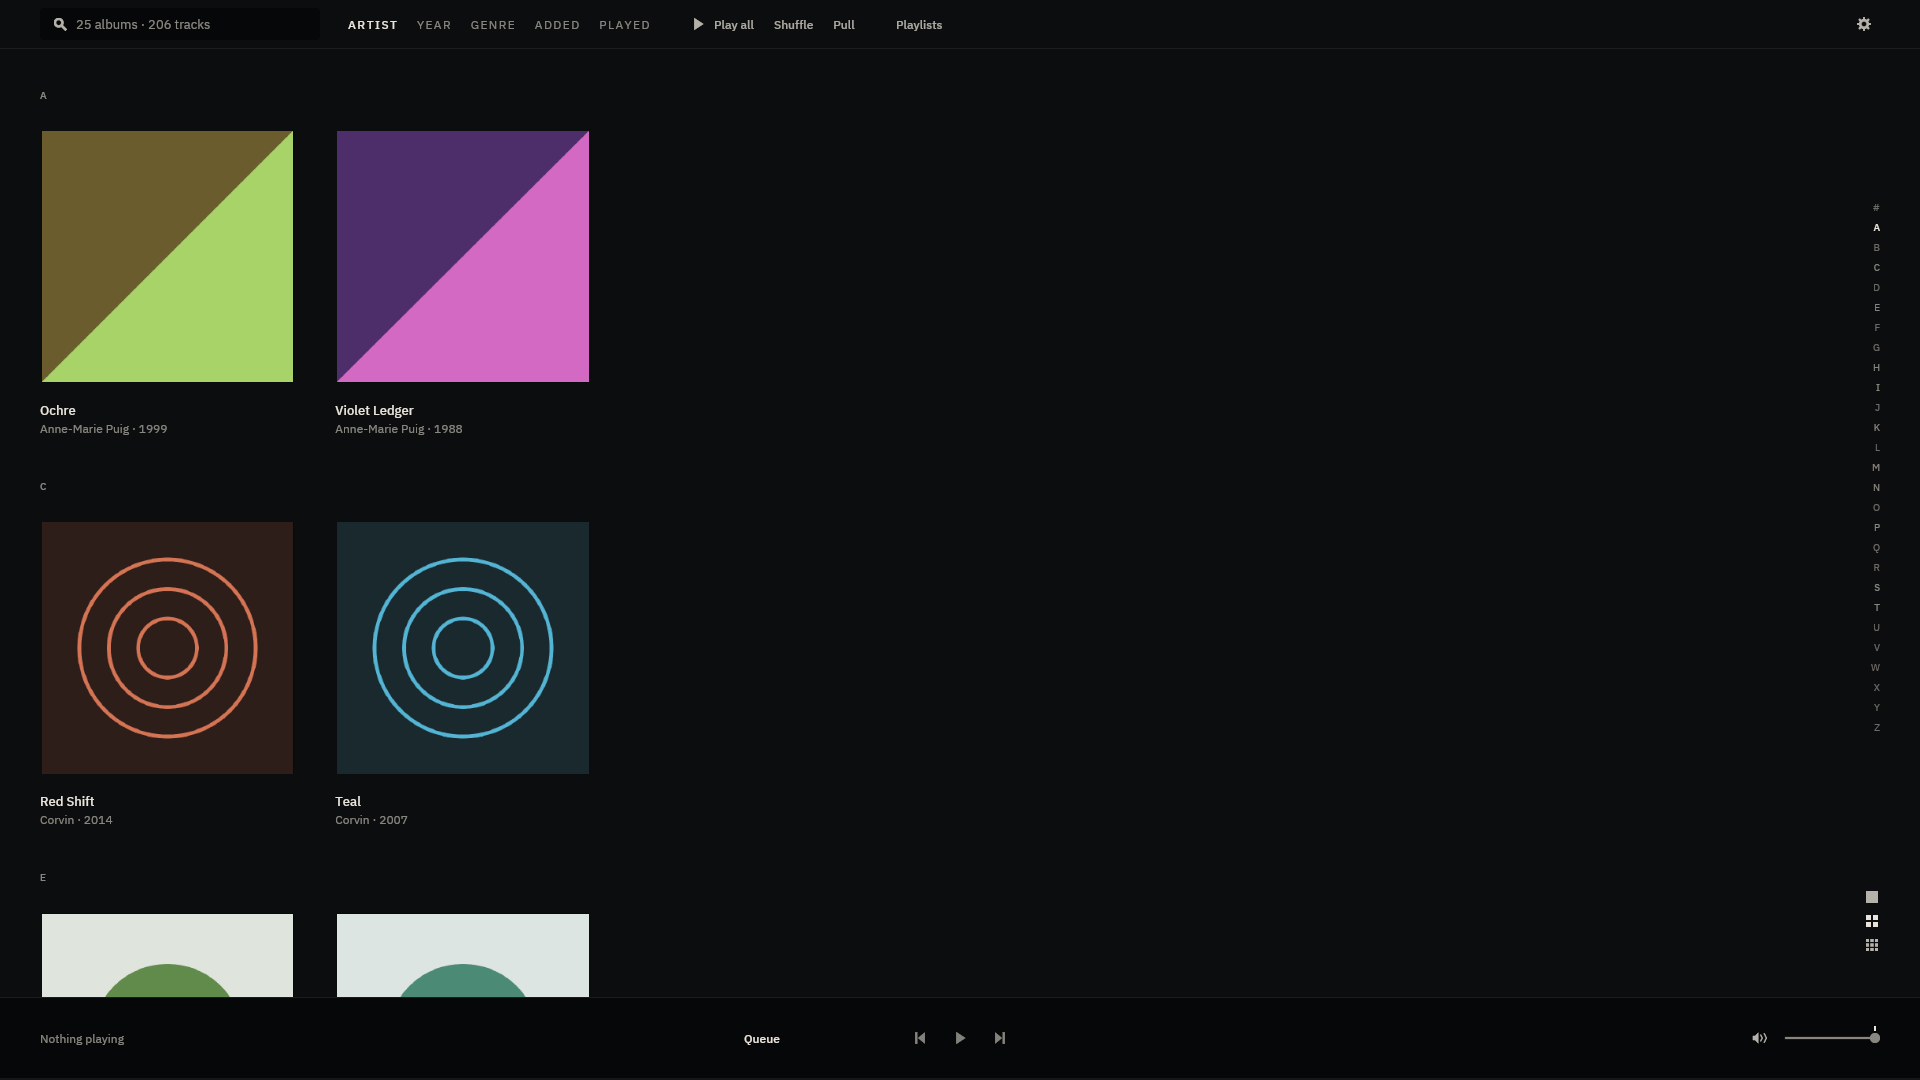
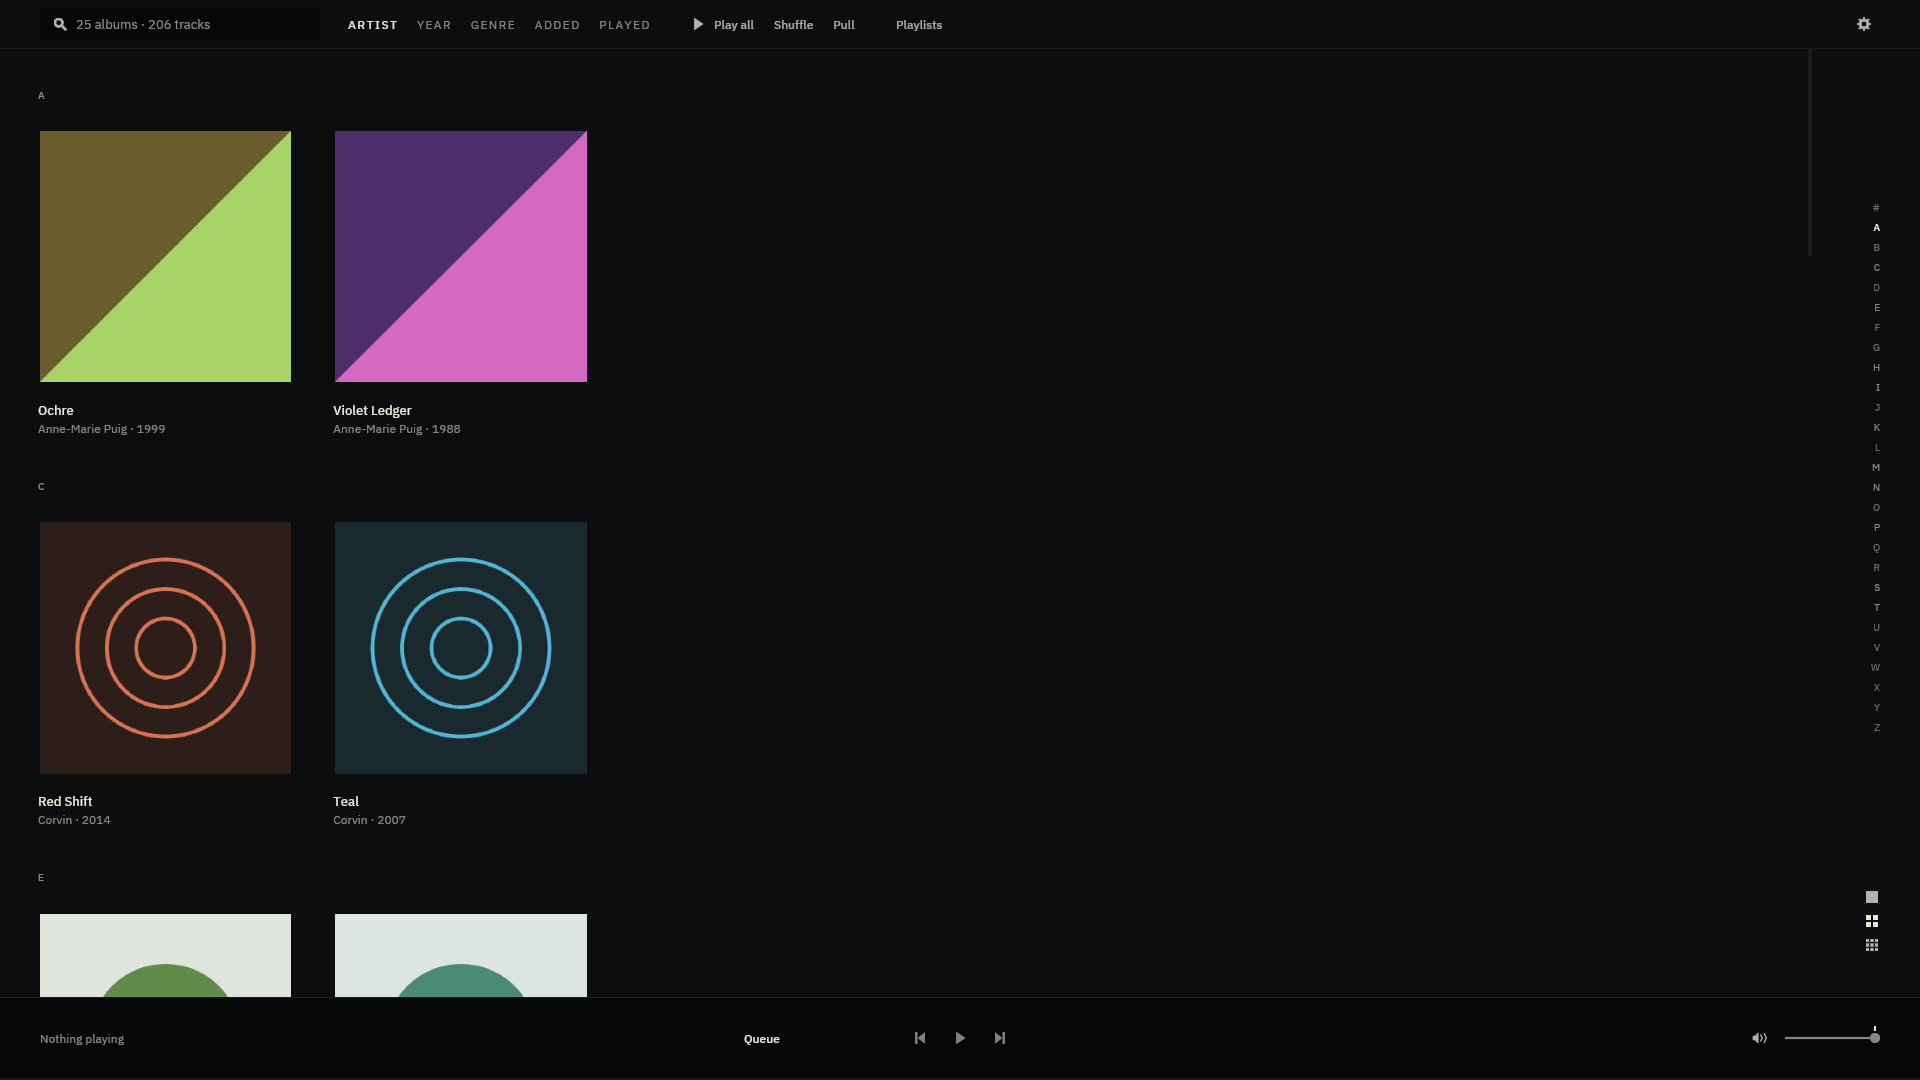
The wall gets a scrollbar: 4 px, and it reserves its own lane
The owner: "can we allow there to be a scroll bar for any view? Just a very
minimal scroll bar because otherwise, it's hard to just jump to the end".

The wall was the only scrolling surface in baz without one — every list already
kept `list_scrollbar`, so "any view" is this view. docs/REFUSALS.md's "two
vertical strips may not do one job" is rewritten to record the decision.

What the rail cannot be asked is *take me to the end*: it jumps to shelves by
group key, and the end is not a group key — under ARTIST the last shelf may be
Z or may be #, and under a filter it is whatever survived.

4 px against the rail's 60, no trough, the room's hairline. It sets `spacing`
so iced reserves the lane inside the scrollable rather than drawing the bar
over the content: the wall's block is centred and is not guaranteed to leave
slack at every width, so overlaying would sometimes put a cover's right edge
under the bar. INDEX_LANE_W and every test over the rail's algebra are
unchanged; the 4 px comes out of the wall's own measure.

Claude-Session: https://claude.ai/code/session_01CZaPVEeJgPRSEv17W7PhiH

diff --git a/crates/baz/src/theme.rs b/crates/baz/src/theme.rs
@@ -1795,42 +1795,53 @@ pub fn list_scrollbar() -> scrollable::Scrollbar {
         .margin(SCROLLBAR_MARGIN)
 }
 
-/// **The wall's scrollbar: none at all** — the geometry that draws nothing.
+/// **The wall's scrollbar: 4 px, and it reserves its own lane.**
 ///
-/// A `Scrollbar` at zero width and zero scroller width is a bar iced lays out
-/// and paints nothing for; the `scrollable` around it goes on handling the
-/// wheel, the touchpad, a drag and every programmatic `scroll_to` exactly as it
-/// did. That is the whole of the mechanism, and it is worth stating plainly
-/// because "suppress the bar, keep the scrolling" is the kind of thing a
-/// toolkit often will not do: **iced 0.13 does**, and it is the same primitive
-/// the album inspector's reveal viewport used, verified against
-/// `iced_widget` 0.13.4 before this was specified. No fallback is needed.
+/// The one thing an index rail cannot do is take you to the end. The rail
+/// jumps to *shelves* by group key — a letter, a year, a genre — and "the
+/// bottom" is not one of those: under `ARTIST` the last shelf may be `Z` or
+/// may be `#`, and under a filter it is whatever survived. So the wall now
+/// draws a bar, at the narrowest width that is still a handle.
 ///
-/// # Why the wall gets it and no other list does
+/// *The owner's decision, 2026-08-09* — *"can we allow there to be a scroll
+/// bar for any view? Just a very minimal scroll bar because otherwise, it's
+/// hard to just jump to the end"*. `docs/REFUSALS.md`'s *two vertical strips
+/// may not do one job* entry is rewritten to record it. Every **other** list
+/// in baz already had one ([`list_scrollbar`]); the wall was the only surface
+/// without, so "any view" is this view.
 ///
-/// The wall has the [index rail](crate::views::shelf) hard against the same
-/// edge, and the rail is a *better* scrollbar: it says where you are, it jumps,
-/// it drags, and it names the shelf it will take you to, which a scroller
-/// cannot. Two vertical strips doing one job is the owner's third complaint in
-/// ADR-0022 — *"the fact that the alphabet bar has a scroll to its left isn't
-/// nice either"* — and the one to delete is the one that says nothing.
+/// # It takes its width from the wall, not from the rail's clearance
 ///
-/// Every other list in baz keeps [`list_scrollbar`], because none of them has a
-/// rail beside it and a page with no bar and no rail is a page with no readout
-/// of how much of it there is.
+/// A `Scrollbar` with `spacing` set makes iced reserve `width + 2 × margin +
+/// spacing` of right padding *inside* the scrollable
+/// (`iced_widget-0.13.4/src/scrollable.rs:422–436`); without it the bar is
+/// drawn over the content. Overlaying was the tempting move — there is
+/// [`INDEX_CLEARANCE`] 8 of empty lane to its right — but the wall's block is
+/// centred and is not guaranteed to leave 4 px of slack at every width, so a
+/// cover's right edge would sometimes be under the bar. Reserving costs the
+/// grid 4 px, which it absorbs the way it absorbs every other width, and
+/// [`INDEX_LANE_W`] is unchanged: the rail's algebra, and every test over it,
+/// is untouched.
 #[must_use]
 pub fn wall_scrollbar() -> scrollable::Scrollbar {
     scrollable::Scrollbar::new()
         .width(WALL_SCROLLBAR_W)
         .scroller_width(WALL_SCROLLBAR_W)
         .margin(SCROLLBAR_MARGIN)
+        // Reserve rather than overlay; the gap to the rail's ink is
+        // `INDEX_CLEARANCE`'s job and stays its job.
+        .spacing(0.0)
 }
 
-/// The width of the wall's scrollbar: **zero** ([`wall_scrollbar`]).
+/// The width of the wall's scrollbar — **4**, the [`RAIL`] width, which is the
+/// narrowest mark in the product that is still something to aim at.
 ///
-/// A token rather than a literal so that "the wall draws no bar" is a number a
-/// test can hold down beside [`SCROLLBAR_W`], which every other list keeps.
-pub const WALL_SCROLLBAR_W: f32 = 0.0;
+/// Deliberately narrower than [`SCROLLBAR_W`] 10, which every list keeps: a
+/// list's bar is its only readout of how much list there is, and the wall's is
+/// a *second* readout beside a rail that already says where you are. It is a
+/// handle for the one gesture the rail has no answer to, and it is drawn in
+/// the same hairline as every other edge in the room.
+pub const WALL_SCROLLBAR_W: f32 = RAIL;
 
 /// A list's scrollbar: no trough, and a scroller in the same hairline the room
 /// uses for every other edge, one step firmer while it is being driven.

diff --git a/crates/baz/src/views/shelf.rs b/crates/baz/src/views/shelf.rs
@@ -111,17 +111,12 @@ pub(crate) fn view<'a>(
     )
     .id(scroll_id())
     .on_scroll(Message::Scrolled)
-    // **The wall has no scrollbar** ([`theme::wall_scrollbar`]). The rail two
-    // pixels to its right is already the wall's scroll affordance — it says
-    // where you are, it jumps, and it names what it jumps to — so a bar beside
-    // it was two vertical strips doing one job, which is the third of the
-    // owner's three complaints in ADR-0022.
-    //
-    // The *scrolling* is untouched: a zero-width `Scrollbar` is a bar iced
-    // draws nothing for, not a `scrollable` that stopped scrolling, so the
-    // wheel, the touchpad, the drag and every programmatic `scroll_to` behave
-    // exactly as before. The style is still handed over because a zero-width
-    // bar is still asked for one.
+    // **The wall's scrollbar** ([`theme::wall_scrollbar`]): 4 px, in the room's
+    // hairline, reserving its own lane inside the scrollable so no cover is
+    // ever drawn under it. The rail beside it still says *where you are* and
+    // still names the shelf it jumps to; what the bar adds is the one gesture
+    // the rail has no answer to — drag to the end. The owner's decision,
+    // 2026-08-09; `docs/REFUSALS.md`'s two-vertical-strips entry records it.
     .direction(scrollable::Direction::Vertical(theme::wall_scrollbar()))
     .style(move |_theme, status| theme::scrollbar(room, room.wall, status))
     .width(Length::Fill)

diff --git a/docs/REFUSALS.md b/docs/REFUSALS.md
@@ -204,9 +204,22 @@ the dead column did and what places do better. The owner blessed this surface
 explicitly; this entry records the argument so the blessing is not a precedent
 for panels generally.
 
-**Two vertical strips may not do one job.** The wall draws no scrollbar, because
-the index rail beside it already says where you are, jumps, drags — and names
-the shelf it will take you to, which a scroller cannot.
+**Every scrolling surface in baz has a scrollbar, and the wall's is 4 px.**
+The rail says *where you are* and names the shelf it will take you to; the bar
+answers the one thing a rail cannot be asked — *take me to the end*, which is
+not a group key and so is not a rung on the rail. The two strips are not doing
+one job; they are doing two, and the bar is the narrower of them because it is
+the lesser.
+
+*Rewritten on the owner's decision, 2026-08-09* — *"can we allow there to be a
+scroll bar for any view? Just a very minimal scroll bar because otherwise, it's
+hard to just jump to the end"*. This entry used to read **"Two vertical strips
+may not do one job"** and refused the wall a scrollbar outright. Every other
+list in baz already had one, so the wall was the only surface the entry
+applied to. What stands from ADR-0022's complaint (*"the fact that the alphabet
+bar has a scroll to its left isn't nice either"*) is that the bar must not
+compete with the rail: 4 px against the rail's 60, no trough, the room's own
+hairline, and it reserves its own lane so it is never drawn over a cover.
 
 ---
 

diff --git a/CHANGELOG.md b/CHANGELOG.md
@@ -380,6 +380,17 @@ next commit.
   52 is the largest square on the 4 px lattice inside the 56 px the tallest
   zone already reserved. No artwork, and the block renders exactly as it did
   before.
+- **The wall has a scrollbar** — 4 px, no trough, the room's own hairline, and
+  it reserves its own lane inside the scrollable so no cover is ever drawn
+  under it. The owner's decision (*"just a very minimal scroll bar because
+  otherwise, it's hard to just jump to the end"*); `docs/REFUSALS.md`'s *two
+  vertical strips may not do one job* entry is rewritten to record it. The wall
+  was the only scrolling surface in baz without one — every list already had
+  `list_scrollbar` — and the rail is untouched: it still says where you are and
+  still names the shelf it jumps to. What the bar adds is the gesture the rail
+  has no rung for, because *the end* is not a group key. `INDEX_LANE_W` and the
+  rail's width algebra are unchanged; the 4 px comes out of the wall's own
+  measure, which the grid absorbs.
 - **The wall's density has a visible control** (ADR-0028; doc 11 §5 P8, the
   owner choosing the visible handle): three detent marks at the foot of the
   index rail's lane — each the wall itself at its hang, one, four, nine works
